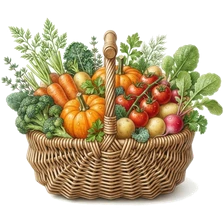
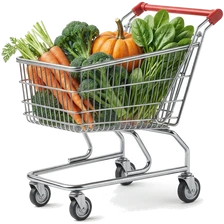
시작일 없는 사용자 화면 순서 재배치, 카트 이미지 교체 (v399)
Claude-Session: https://claude.ai/code/session_017rR5Dyp7EZfMrBkE4c6qwE

diff --git a/app/index.html b/app/index.html
@@ -1076,6 +1076,14 @@
 @media(max-width:370px){.ql{font-size:11.5px;padding:8px 5px}.ql-row{gap:5px}}
 .mbi{width:1.2em;height:1.2em;vertical-align:-.22em;flex:none;display:inline-block}.fam-btn b .mbi{width:22px;height:22px;vertical-align:-5px;margin-right:2px;color:var(--moss-deep,#34493B)}.er-strip b .mbi{color:#B5542F;width:20px;height:20px}
 .mbi-img{object-fit:contain;width:1.5em;height:1.5em;vertical-align:-.4em}.fam-btn b .mbi-img{width:34px;height:34px;vertical-align:-10px;margin-right:2px}
+.stagebody.ns{display:flex;flex-direction:column}
+.stagebody.ns>*{order:20}
+.stagebody.ns>.subpage.startpage.active{display:contents}
+.stagebody.ns>.subpage.startpage.active>*{order:20}
+.stagebody.ns>.subpage.startpage.active>.sp-order{order:1}
+.stagebody.ns>.subpage.startpage.active>.sp-dl{order:2}
+.stagebody.ns>.subpage.startpage.active>.sp-list,.stagebody.ns>.subpage.startpage.active>.sp-past{order:3}
+.stagebody.ns>.feedrhythm{order:10}.stagebody.ns>.sp-guide{order:11}.stagebody.ns>.subpage.startpage.active>.ql-row{order:12}
 </style>
 <style id="layout-polish">
 /* v102 레이아웃 정리: 상품 링크는 한 줄짜리 목록 행, 일정 칩은 같은 크기 칸 */
@@ -4780,6 +4788,7 @@ function bindStartDownloads(container){
 }
 function buildStartPage(container){
   container.className = 'subpage active startpage';
+  try{ container.parentElement.classList.toggle('ns', !weaningStart); }catch(e){}
   const day = startDayNo();
   const cur = startStepIndex(day);
 
@@ -5254,6 +5263,7 @@ function midRowHtml(st, i, cur, day){
 }
 function buildMidPage(container){
   container.className = 'subpage active startpage midpage';
+  try{ container.parentElement.classList.toggle('ns', !midStart); }catch(e){}
   const day = midDayNo();
   const cur = midStepIndex(day);
   let today = '';
@@ -5551,6 +5561,7 @@ function lateRowHtml(st, i, cur, day){
 }
 function buildLatePage(container){
   container.className = 'subpage active startpage midpage';
+  try{ container.parentElement.classList.toggle('ns', !lateStart); }catch(e){}
   const day = lateDayNo();
   const cur = lateStepIndex(day);
   let today = '';

diff --git a/index.html b/index.html
@@ -1069,6 +1069,14 @@
 @media(max-width:370px){.ql{font-size:11.5px;padding:8px 5px}.ql-row{gap:5px}}
 .mbi{width:1.2em;height:1.2em;vertical-align:-.22em;flex:none;display:inline-block}.fam-btn b .mbi{width:22px;height:22px;vertical-align:-5px;margin-right:2px;color:var(--moss-deep,#34493B)}.er-strip b .mbi{color:#B5542F;width:20px;height:20px}
 .mbi-img{object-fit:contain;width:1.5em;height:1.5em;vertical-align:-.4em}.fam-btn b .mbi-img{width:34px;height:34px;vertical-align:-10px;margin-right:2px}
+.stagebody.ns{display:flex;flex-direction:column}
+.stagebody.ns>*{order:20}
+.stagebody.ns>.subpage.startpage.active{display:contents}
+.stagebody.ns>.subpage.startpage.active>*{order:20}
+.stagebody.ns>.subpage.startpage.active>.sp-order{order:1}
+.stagebody.ns>.subpage.startpage.active>.sp-dl{order:2}
+.stagebody.ns>.subpage.startpage.active>.sp-list,.stagebody.ns>.subpage.startpage.active>.sp-past{order:3}
+.stagebody.ns>.feedrhythm{order:10}.stagebody.ns>.sp-guide{order:11}.stagebody.ns>.subpage.startpage.active>.ql-row{order:12}
 </style>
 <style id="layout-polish">
 /* v102 레이아웃 정리: 상품 링크는 한 줄짜리 목록 행, 일정 칩은 같은 크기 칸 */
@@ -4638,6 +4646,7 @@ function bindStartDownloads(container){
 }
 function buildStartPage(container){
   container.className = 'subpage active startpage';
+  try{ container.parentElement.classList.toggle('ns', !weaningStart); }catch(e){}
   const day = startDayNo();
   const cur = startStepIndex(day);
 
@@ -5112,6 +5121,7 @@ function midRowHtml(st, i, cur, day){
 }
 function buildMidPage(container){
   container.className = 'subpage active startpage midpage';
+  try{ container.parentElement.classList.toggle('ns', !midStart); }catch(e){}
   const day = midDayNo();
   const cur = midStepIndex(day);
   let today = '';
@@ -5409,6 +5419,7 @@ function lateRowHtml(st, i, cur, day){
 }
 function buildLatePage(container){
   container.className = 'subpage active startpage midpage';
+  try{ container.parentElement.classList.toggle('ns', !lateStart); }catch(e){}
   const day = lateDayNo();
   const cur = lateStepIndex(day);
   let today = '';

diff --git a/sw.js b/sw.js
@@ -6,7 +6,7 @@
    그래서 /재료/소고기/ 같은 별도 페이지를 한 번 열면 앱 본체 캐시가 그 페이지로 바뀌어,
    오프라인에서 앱을 열었을 때 엉뚱한 페이지가 뜨는 문제가 있었습니다.
    이제 앱 본체(루트)만 './index.html'로 저장하고, 나머지 페이지는 각자 주소로 저장합니다. */
-const CACHE_NAME = 'meokbo-cache-v398';
+const CACHE_NAME = 'meokbo-cache-v399';
 /* 일러스트(/dogam/)는 버전이 바뀌어도 지우지 않는 별도 캐시 + "저장본 먼저 보여주고 뒤에서 갱신" 방식
    → 배포할 때마다 이미지를 다시 받지 않아 빠르고 데이터도 아낌 */
 const IMG_CACHE = 'meokbo-img-v1';
